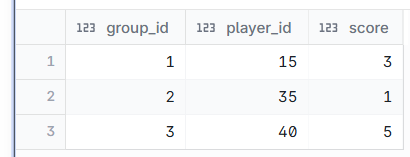
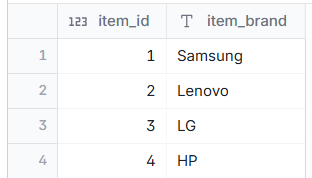
Add files via upload

diff --git a/core_skills/SQL/Interview-Handson/sql-store-seller_favorite/README.md b/core_skills/SQL/Interview-Handson/sql-store-seller_favorite/README.md
@@ -1,4 +1,4 @@
-# Find the winner of each group. The player with most points is the winner. If poitns tie, the payer with lower ID is the winner.
+# Find whether the second product sold by the seller (based on order-date) is their favorite product or not. If the seller has sold less than 2 products, mention as No
 
 --- 
 ## INPUT
@@ -16,33 +16,33 @@
 ## DATA PREPARATION
 
 ```
-create table players
-(player_id int,
-group_id int) ;
+create table users (
+user_id         int     ,
+ join_date       date    ,
+ favorite_brand  varchar(50));
 
-insert into players values (15,1);
-insert into players values (25,1);
-insert into players values (30,1);
-insert into players values (45,1);
-insert into players values (10,2);
-insert into players values (35,2);
-insert into players values (50,2);
-insert into players values (20,3);
-insert into players values (40,3);
+ create table orders (
+ order_id       int     ,
+ order_date     date    ,
+ item_id        int     ,
+ buyer_id       int     ,
+ seller_id      int 
+ );
 
-create table matches
-(
-match_id int,
-first_player int,
-second_player int,
-first_score int,
-second_score int) ;
+ create table items
+ (
+ item_id        int     ,
+ item_brand     varchar(50)
+ );
 
-insert into matches values (1,15,45,3,0);
-insert into matches values (2,30,25,1,2);
-insert into matches values (3,30,15,2,0);
-insert into matches values (4,40,20,5,2);
-insert into matches values (5,35,50,1,1);
+
+ insert into users values (1,'2019-01-01','Lenovo'),(2,'2019-02-09','Samsung'),(3,'2019-01-19','LG'),(4,'2019-05-21','HP');
+
+ insert into items values (1,'Samsung'),(2,'Lenovo'),(3,'LG'),(4,'HP');
+
+ insert into orders values (1,'2019-08-01',4,1,2),(2,'2019-08-02',2,1,3),(3,'2019-08-03',3,2,3),(4,'2019-08-04',1,4,2)
+ ,(5,'2019-08-04',1,3,4),(6,'2019-08-05',2,2,4);
+
 ```
 
 ---
@@ -50,33 +50,30 @@ insert into matches values (5,35,50,1,1);
 ## SQL SOLUTION OVERVIEW
 
 ```
-    WITH com_player AS (
-        SELECT first_player,  first_score
-        FROM matches
-        UNION ALL                                    
-        SELECT second_player, second_score
-        FROM matches
-    ),
-    group_points AS (
-        SELECT
-            first_player,
-            group_id,
-            SUM(first_score) AS total_score,
-            ROW_NUMBER() OVER (
-                PARTITION BY group_id
-                ORDER BY SUM(first_score) DESC,      
-                        first_player ASC
-            ) AS point_rank
-        FROM com_player c
-        INNER JOIN players p ON c.first_player = p.player_id
-        GROUP BY first_player, group_id             
+with
+    rnk_orders as (
+        select
+            *,
+            rank() over (
+                partition by
+                    seller_id
+                order by
+                    order_date asc
+            ) as rn
+        from
+            orders
     )
-    SELECT
-        group_id,
-        first_player as player_id,
-        total_score as score
-    FROM group_points
-    WHERE point_rank = 1
-    ORDER BY group_id;                               
+select
+    u.user_id as seller_id,
+    case
+        when i.item_brand = u.favorite_brand then 'Yes'
+        else 'No'
+    end as item_fav_brand
+from
+    users u
+    LEFT join rnk_orders ro on ro.seller_id = u.user_id
+    and rn = 2
+    LEFT join items i on i.item_id = ro.item_id
+
 ```
 --- 
